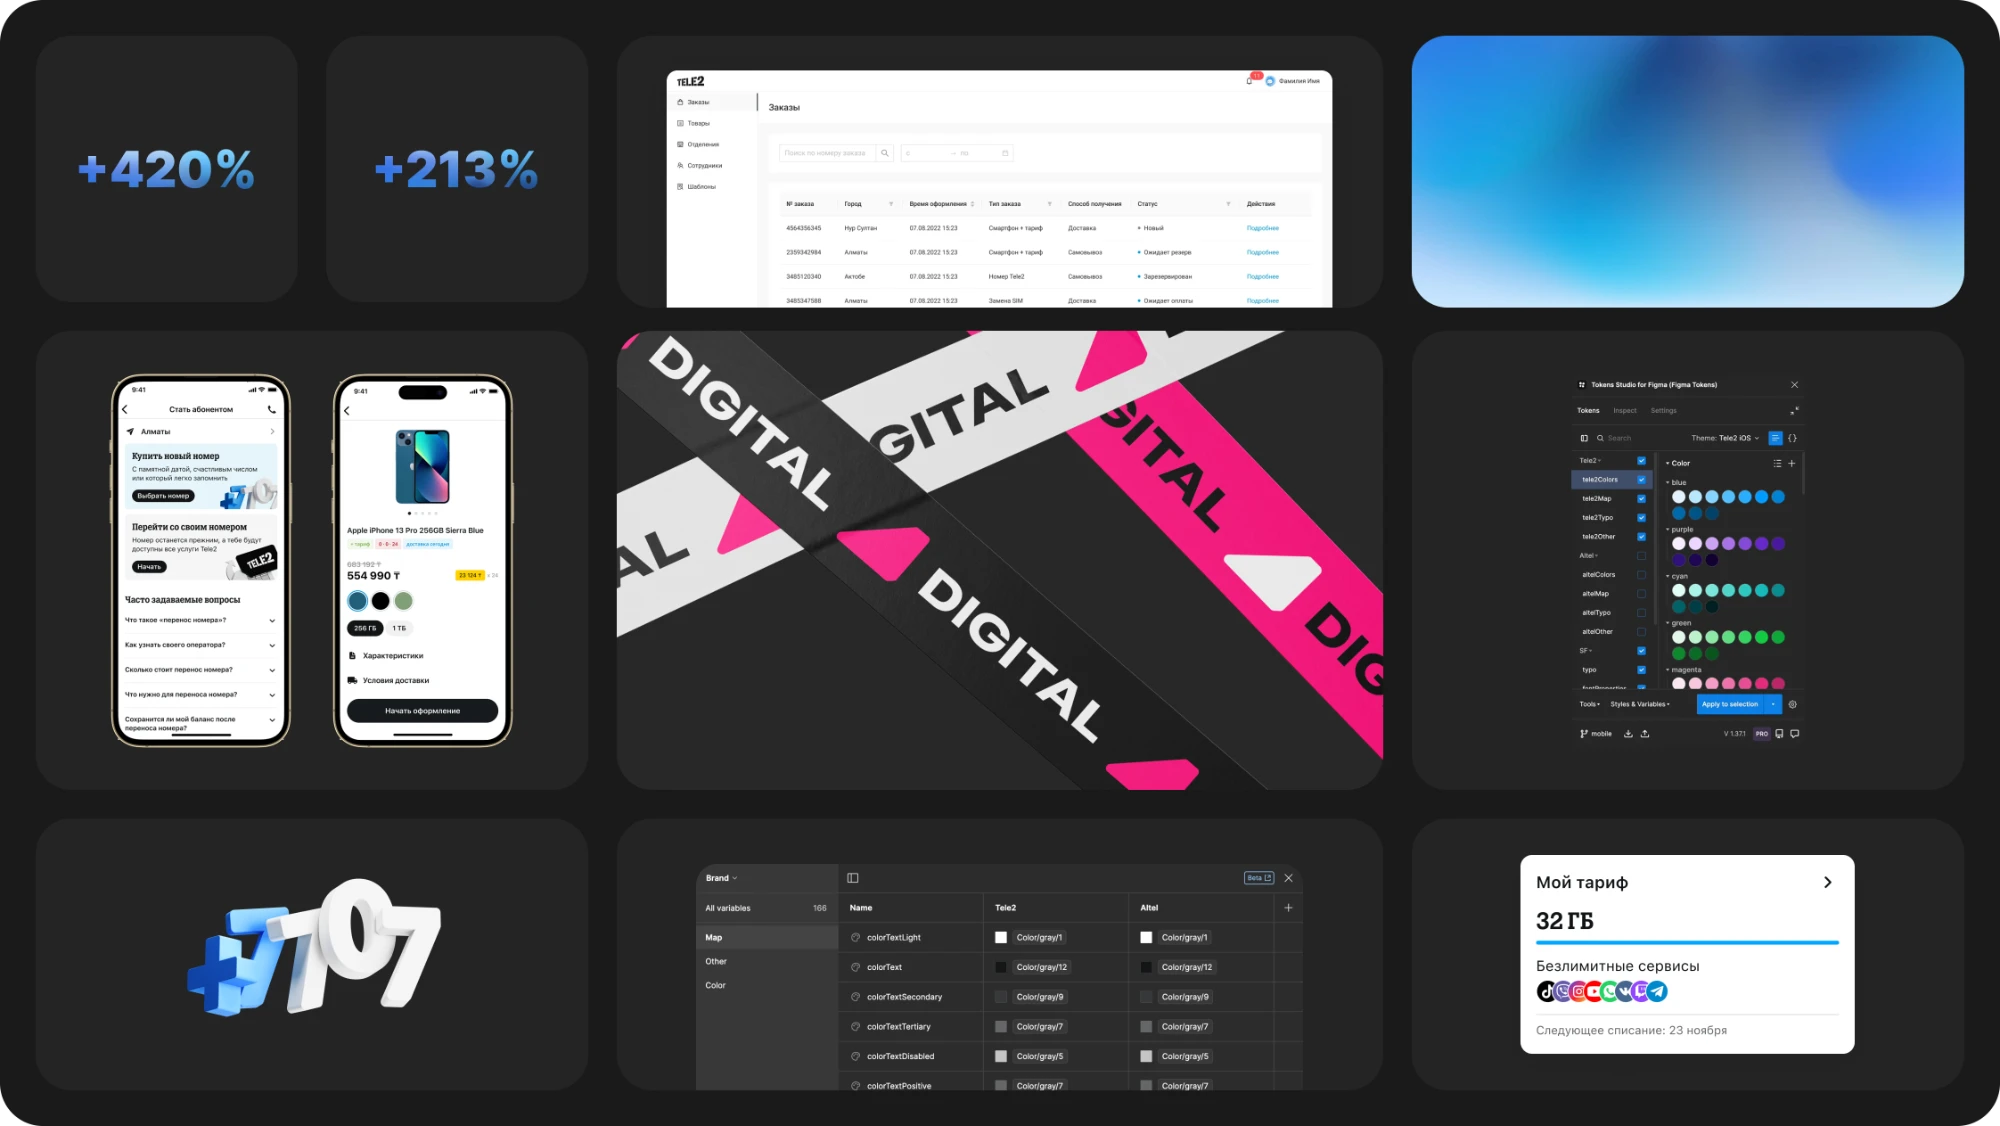
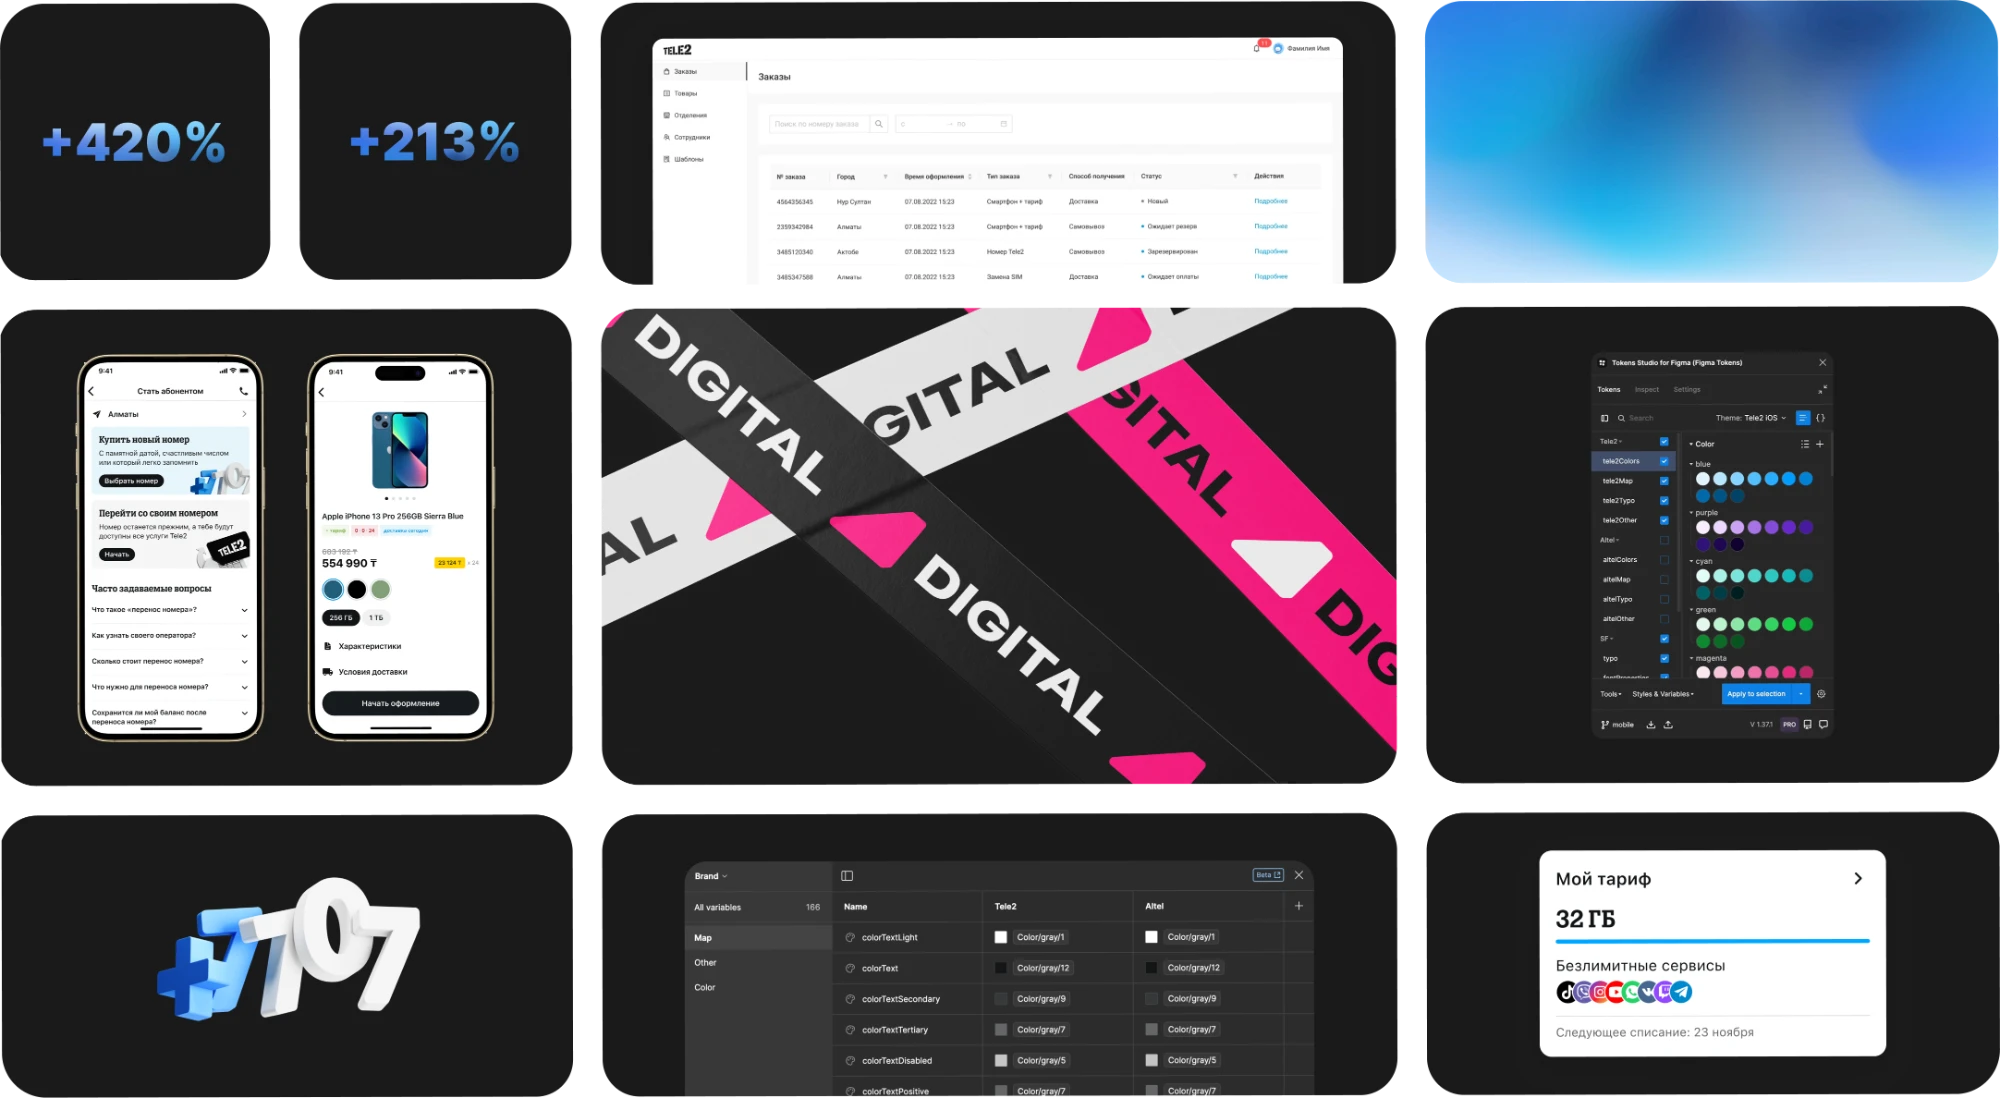
About: update Tele2 dark image

diff --git a/about.html b/about.html
@@ -129,7 +129,7 @@
             </div>
             <figure class="job__media">
               <img draggable="false" class="job__media-light" src="images/tele2-light.webp?v=2" alt="Работа в Tele2 / Altel: рост покупок и переносов номера, экраны приложения, админка заказов, токены дизайн-системы для двух брендов" width="2000" height="1093" loading="lazy">
-              <img draggable="false" class="job__media-dark" src="images/tele2-dark.webp" alt="Работа в Tele2 / Altel: рост покупок и переносов номера, экраны приложения, админка заказов, токены дизайн-системы для двух брендов" width="2000" height="1126" loading="lazy">
+              <img draggable="false" class="job__media-dark" src="images/tele2-dark.webp?v=2" alt="Работа в Tele2 / Altel: рост покупок и переносов номера, экраны приложения, админка заказов, токены дизайн-системы для двух брендов" width="2000" height="1098" loading="lazy">
             </figure>
           </div>
         </li>
